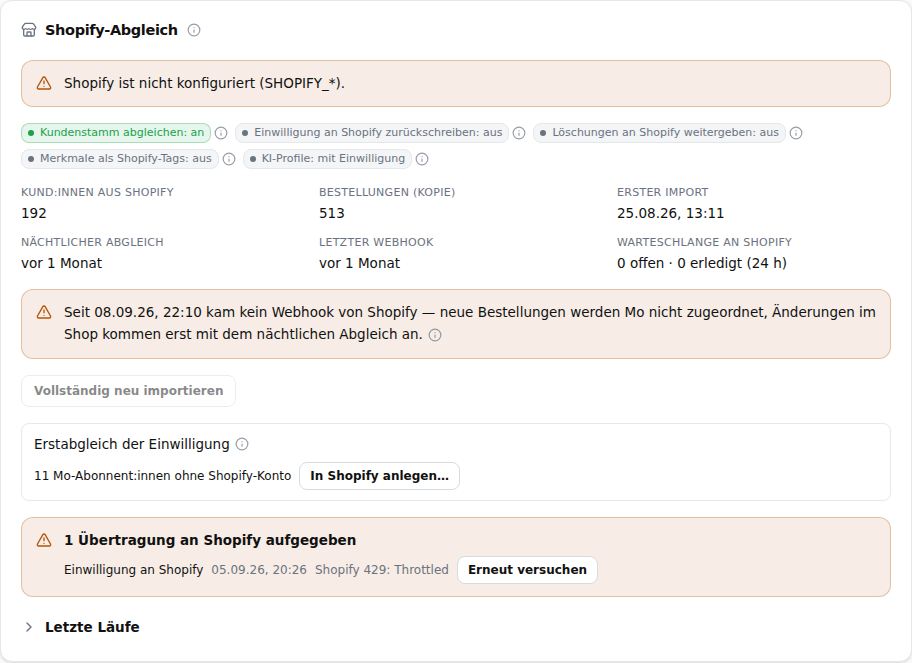
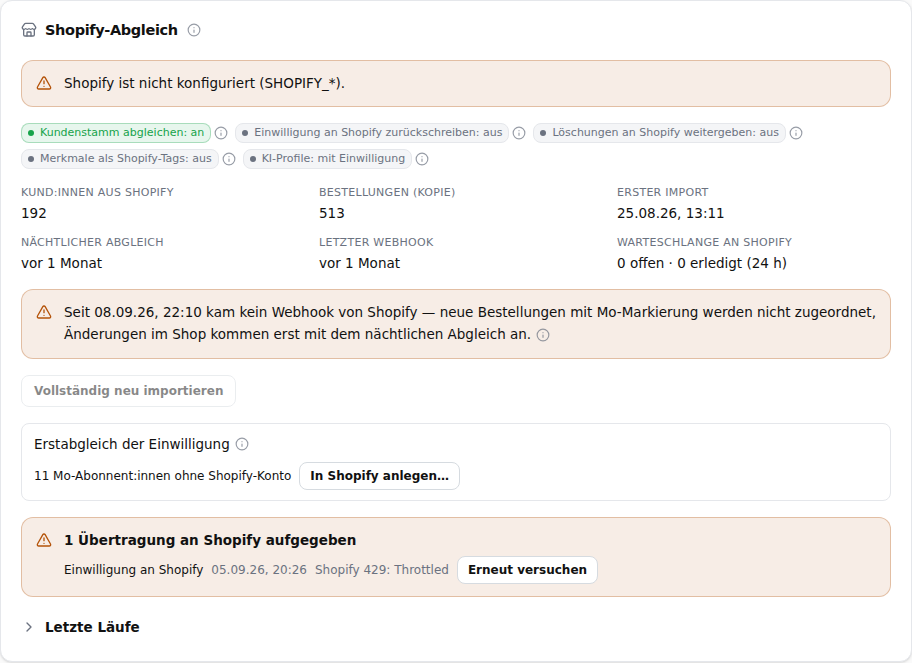
Docs: open list fixes from the review — pointers, test cases 8/8b, webhook check steps
- Item references in C.23, C.29, C.31 and Done follow the new numbering.
- Test case 8 states the popup preconditions again (no decision in Mo,
  not the 06.10. address); test case 8b has its steps back.
- The webhook check: a failed check after step 1 leads to the Vercel
  logs; the last-webhook time may read „vor 1 Min.“.
- Marked orders only, in every doc that describes the outage; screenshots
  retaken.

Claude-Session: https://claude.ai/code/session_012fxHBW88bMmfRpyx9fu3p7

Changed region(s): [[0.0614, 0.4827, 0.5833, 0.5128], [0.614, 0.4525, 0.9825, 0.4827]]

diff --git a/docs/FEATURE_INVENTORY.md b/docs/FEATURE_INVENTORY.md
@@ -255,7 +255,7 @@ Erster Bildschirm (`/admin`, `?tab=eingang`, Taste `1`, Plan D-9). `EingangTab` 
 | ID | Element | Type | What it does | Calls | File |
 |---|---|---|---|---|---|
 | EIG-01 | Callout „Keine Datenbank konfiguriert (DATABASE_URL) — der Eingang kann nicht geladen werden." | display (warn) | Zustand ohne DB | server-render | EingangTab.tsx |
-| EIG-02 | Systemleiste: „n Entwürfe zur Prüfung“ mit Link je aktiver Kampagne (`?tab=kampagne&campaign=<slug>`, sonst „Zu den Kampagnen“); „n offene Wissensfragen“ (→ Wissen) + „Analyse läuft · Verbesserungslauf läuft“; Streifen „letzte 30 Tage“: Gespräche · Kampagnen-Mails · neu angemeldet (Personen mit einer Anmeldung zur einen Einwilligung im Zeitraum, jede Oberfläche, ohne Import) + „Alle KPIs“; Callout „Shopify-Abgleich braucht Aufmerksamkeit“ + „Einstellungen“ (die Punkte aus `describeSyncProblems`; **Nachtrag 2026-10-11:** „Seit über zwei Tagen kam kein Shopify-Webhook an — neue Bestellungen werden Mo nicht zugeordnet.“) | display + links | Ersetzt die Übersicht-Karten | server-render (`listCampaigns`, `getEingangSystemSnapshot`, `describeSyncProblems`) | eingang/EingangWorkspace.tsx (SystemStrip), lib/admin-overview-store.ts |
+| EIG-02 | Systemleiste: „n Entwürfe zur Prüfung“ mit Link je aktiver Kampagne (`?tab=kampagne&campaign=<slug>`, sonst „Zu den Kampagnen“); „n offene Wissensfragen“ (→ Wissen) + „Analyse läuft · Verbesserungslauf läuft“; Streifen „letzte 30 Tage“: Gespräche · Kampagnen-Mails · neu angemeldet (Personen mit einer Anmeldung zur einen Einwilligung im Zeitraum, jede Oberfläche, ohne Import) + „Alle KPIs“; Callout „Shopify-Abgleich braucht Aufmerksamkeit“ + „Einstellungen“ (die Punkte aus `describeSyncProblems`; **Nachtrag 2026-10-11:** „Seit über zwei Tagen kam kein Shopify-Webhook an — neue Bestellungen mit Mo-Markierung werden nicht zugeordnet.“) | display + links | Ersetzt die Übersicht-Karten | server-render (`listCampaigns`, `getEingangSystemSnapshot`, `describeSyncProblems`) | eingang/EingangWorkspace.tsx (SystemStrip), lib/admin-overview-store.ts |
 | EIG-03 | Status `SegmentedControl` „Offen n · Später n · Erledigt“ (Erledigt inkl. verworfen) + Select „Alle Arten“ (Art mit Anzahl) | filter | Status über `?status=zurueckgestellt\|erledigt` (router.push), Art client-seitig | server-render (`listInboxItems`) | eingang/EingangWorkspace.tsx |
 | EIG-04 | „Jetzt prüfen“ → Toast „n neu · m erledigt sich von selbst.“ | button | Regeln sofort ausführen (ohne KI-Vorschläge) | POST /api/admin/inbox/run | eingang/EingangWorkspace.tsx |
 | EIG-05 | Liste „Jetzt / Diese Woche / Später“ (`signalGroup`): Prioritätspunkt (≥ 80 / ≥ 55), Titel, ✨ bei Vorschlag, relative Zeit, „Kunde · Grund“; leer „Alles erledigt“ | list (buttons) | Auswahl → `?item=` (replaceState) | client-only | eingang/EingangWorkspace.tsx |
@@ -850,7 +850,7 @@ Bildschirm-Beschreibung: [`ADMIN_DASHBOARD.md`](./ADMIN_DASHBOARD.md) §3.5 und 
 | KPI-95 | (2026-10-08) Anmelde-Popup: h4 „Mit und ohne Gutschein-Hinweis“ (InfoTip) — Tabelle Hinweis („mit Hinweis“ / „ohne Hinweis“ / „gemischt“) · Variante · Angezeigt · „Anmelden“ · Im Chat angemeldet · Anmelderate (im Chat ÷ angezeigt) · Opt-in danach · Bestätigt, nur sobald ein Popup mit Hinweis existiert; h4 „Nach ausgelieferter Variante“ (InfoTip) — Variante · Mit Hinweis · dieselben Spalten, nur mit Zeilen | display (Tabellen) | Wirkung des Anmelde-Teasers: Sitzungen nach ihrem **ersten** Popup (`login_gate_shown {teaser, variant}`), „gemischt“ bei abweichendem späterem Popup; je ausgelieferter Variante über das erste `consent_copy_served` der Sitzung (nur solange mehrere Varianten aktiv sind); „Opt-in danach“ / „Bestätigt“ in derselben Sitzung nach dem Klick | `getLoginGateFunnel` → `byTeaser` / `byServedVariant`; `normalizeLoginTeaserRows` / `normalizeServedVariantRows` (`kpi-widget-events.mjs`, getestet) | kpi/sections/LoginGateSection.tsx |
 | KPI-96 | (2026-10-08) h4 „Gutschein-Test: Varianten gegen Kontrollgruppe a“ (InfoTip mit der Frist aus `MARKETING_DOI_EXPIRY_DAYS`): ohne Test Callout „Kein Gutschein-Test im Zeitraum — nur eine Variante aktiv.“ bzw. Warnung „Mehrere Varianten aktiv, aber kein Test vorab festgelegt (CONSENT_REWARD_EXPERIMENT) — kein Vergleich.“; mit Test je Variante „Bestätigte Anmeldungen je berechtigter Sitzung: b vs. a“ + StatusBadge „belastbar“ (95-%-Intervall, „Unterschied gesichert“ / „kein gesicherter Unterschied“) oder „läuft (n / Ziel)“, Tabelle Variante · Berechtigte Sitzungen · Opt-ins · DOI-Mail verschickt · Bestätigt · Bestätigt je Sitzung · Unterschied zu a, Zeile „Ausgeschlossen: …“ | display (Callout / Badges / Tabelle) | Intention-to-treat nach **zugeteilter** Variante: jede angemeldete Sitzung, der die Frage angeboten werden durfte (Server-Event `consent_ask_eligible` aus `/api/auth/me`), mit der Variante ihrer **ersten Berechtigung überhaupt** (eine Sitzung, die schon vor dem Zeitraum berechtigt war, zählt nicht); Opt-in und DOI-Mail in derselben Sitzung höchstens `MARKETING_DOI_EXPIRY_DAYS` nach der Berechtigung, die Bestätigung **dieses** Opt-ins höchstens so lange nach dem Opt-in (bei `captureId` dieselbe Erfassung); nur Sitzungen, deren Frist (2 × `MARKETING_DOI_EXPIRY_DAYS`) abgelaufen ist; ohne `livecheck-%`; höchstens 20.000 Sitzungen; Vergleich nur mit vorab festgelegtem `CONSENT_REWARD_EXPERIMENT` (heute `null`); Umsatz je Arm nicht enthalten | `getConsentExperiment` (`kpi-consent-experiment-store.ts`); `summariseConsentExperiment`, `CONSENT_REWARD_EXPERIMENT` (`consent-experiment.mjs`, getestet; `compareArms` / `experimentProgress` aus `page-context.mjs`) | kpi/sections/ConsentGateSection.tsx |
 | KPI-97 | (2026-10-08) h4 „Willkommensgutscheine“ (InfoTip): Stats „Gutscheine ausgegeben“ („n/a“, hint „nur in Shopify (Automatisierung)“) und „Gutscheine eingelöst“ (Anzahl, hint „n % der Bestellungen“ / „keine Bestellungen im Zeitraum“; ohne Muster „n/a“, hint „kein Muster (WELCOME_CODE_MATCH)“) | display (Stats) | Wie oft der Willkommenscode des Shops eingelöst wurde — nie geschätzt; „ausgegeben“ kennt nur die Shopify-Automatisierung | `getWelcomeCodeStats` (`kpi-consent-experiment-store.ts`): `customer_orders` im Zeitraum, nicht storniert, `discount_codes` gegen `WELCOME_CODE_MATCH` (`welcome-code-match.mjs`, getestet); nur Summen | kpi/sections/ConsentGateSection.tsx |
-| KPI-98 | (2026-10-11) Warn-Callout unter der Werkzeugleiste, solange seit über zwei Tagen kein Shopify-Webhook ankam: „Seit <Zeitpunkt> kommen keine Shopify-Webhooks an — Bestellungen seitdem sind Mo nicht zugeordnet, „Umsatz durch Mo“ fehlt für diese Zeit.“ + InfoTip „Warum und was tun“ (Zuordnung nur über den Webhook „Bestellung angelegt“, der nächtliche Abgleich füllt nur die Bestellkopie; `npm run shopify:webhooks`, Vercel-Logs von /api/webhooks/shopify, `SHOPIFY_CLIENT_SECRET`) | display (Callout) | nicht vor dem ersten Webhook überhaupt | `getSyncHealth().lastWebhookAt`, `isWebhookQuiet` (`shopify-sync-health.mjs`, getestet) | KpiTab.tsx |
+| KPI-98 | (2026-10-11) Warn-Callout unter der Werkzeugleiste, solange seit über zwei Tagen kein Shopify-Webhook ankam: „Seit <Zeitpunkt> kommen keine Shopify-Webhooks an — Bestellungen mit Mo-Markierung (Chat, Set-Link) sind seitdem nicht zugeordnet, „Umsatz durch Mo“ ist für diese Zeit zu niedrig.“ + InfoTip „Warum und was tun“ (markierte Bestellungen nur über die Webhooks „Bestellung angelegt“ / „Bestellung bezahlt“; Bestellungen mit Mo-Code ergänzt der Code-Abgleich weiter; der nächtliche Abgleich füllt nur die Bestellkopie; `npm run shopify:webhooks`, Vercel-Logs von /api/webhooks/shopify, `SHOPIFY_CLIENT_SECRET`) | display (Callout) | nicht vor dem ersten Webhook überhaupt | `getSyncHealth().lastWebhookAt`, `isWebhookQuiet` (`shopify-sync-health.mjs`, getestet) | KpiTab.tsx |
 
 ### Helper/explanatory text (KPIs) — 71 (Caveats vollständig zitiert, da inhaltlich zu erhalten)
 **Nachtrag 2026-10-06 (Neuordnung):** 1 → neuer Wortlaut (KPI-07); 5 entfällt mit der Status-Verteilung (KPI-11/12); 7 steht im InfoTip von „Vom Chat zur Bestellung“ (KPI-92); 11–15 entfallen mit „Umsatz über Mo-Rabattcodes“ (KPI-30/31) — die Code-Hinweise stehen unter „Umsatz durch Mo“; 16–21 sind zusammengelegt in den InfoTip und die Hinweise von „Umsatz durch Mo“ (KPI-89) und die InfoTips je Weg von „Wie der Umsatz entstand“ (KPI-90; 18 → „Direkt über Mo“ und seine Wege, 19 → „Beraten & gekauft“, 20 → „Beraten, anderes gekauft“); 30–33 entfallen mit dem Marketing-Funnel (KPI-58…60); 39–43 entfallen mit „Empfehlung → Kauf“ (KPI-66…69); 44–45 sind der InfoTip der Karte „Sprachen“ in „Beratungen“ (KPI-17/18); 59 hat einen neuen Wortlaut (KPI-40). Neue InfoTips der Abschnitte KPI-89…92 stehen in `kpi/sections/UmsatzSection.tsx`, `UmsatzWegeSection.tsx`, `UmsatzBestellungenSection.tsx`, `JourneySection.tsx`; die Gruppen-InfoTips in `kpi/groups.ts`.
@@ -1215,7 +1215,7 @@ Bildschirm-Beschreibung: [`ADMIN_DASHBOARD.md`](./ADMIN_DASHBOARD.md) §3.10. Di
 | EIN-05 | Warnbox „Keine Datenbank konfiguriert (DATABASE_URL) — die Auswahl kann nicht gespeichert werden…" (+ Selects disabled) | display/state | – | – | einstellungen/EmailSettingsWorkspace.tsx |
 | EIN-06 | Versand-Konfiguration: „E-Mail-Versand" Badge Konfiguriert/Nicht konfiguriert, „Absender-Adresse", „Antwort-/Eingangsadresse", „Logo-Override (EMAIL_LOGO_URL)" | display (dl) | Env-Werte read-only | server-render | einstellungen/EmailSettingsWorkspace.tsx |
 | **Shopify-Abgleich (ab 2026-10-01)** ||||||
-| EIN-07 | Karte „Shopify-Abgleich“ (InfoTip): Callout „Shopify ist nicht konfiguriert (SHOPIFY_*).“; Schalter-Badges „Kundenstamm abgleichen“ (`SHOPIFY_CUSTOMER_SYNC_ENABLED`), „Einwilligung an Shopify zurückschreiben“ (`SHOPIFY_CONSENT_WRITEBACK`), „Löschungen an Shopify weitergeben“ (`SHOPIFY_ERASURE_SYNC`), **Nachtrag 2026-10:** „Merkmale als Shopify-Tags“ (`SHOPIFY_WRITEBACK_ENABLED`, EIN-12) je „an/aus“ + InfoTip, „KI-Profile: alle / mit Einwilligung“ (`CUSTOMER_AI_PROFILE_SCOPE`); Kennzahlen „Kund:innen aus Shopify“, „Bestellungen (Kopie)“, „Erster Import“, „Nächtlicher Abgleich“, „Letzter Webhook“ (+ n in 24 h), „Warteschlange an Shopify“ (offen · erledigt 24 h). **Nachtrag 2026-10-11:** Warn-Callout „Seit <Zeitpunkt> kam kein Webhook von Shopify — neue Bestellungen werden Mo nicht zugeordnet, Änderungen im Shop kommen erst mit dem nächtlichen Abgleich an.“ + InfoTip „Was tun“, solange der Abgleich an ist und seit über zwei Tagen kein Webhook kam (`isWebhookQuiet`) | card + display | Zustand der Verbindung Mo ⇄ Shopify | server-render (`getSyncHealth`, `getOutboxStats`, `shopifySyncFlags`); JSON-Zwilling GET /api/admin/shopify/status | einstellungen/ShopifySyncCard.tsx, EinstellungenTab.tsx |
+| EIN-07 | Karte „Shopify-Abgleich“ (InfoTip): Callout „Shopify ist nicht konfiguriert (SHOPIFY_*).“; Schalter-Badges „Kundenstamm abgleichen“ (`SHOPIFY_CUSTOMER_SYNC_ENABLED`), „Einwilligung an Shopify zurückschreiben“ (`SHOPIFY_CONSENT_WRITEBACK`), „Löschungen an Shopify weitergeben“ (`SHOPIFY_ERASURE_SYNC`), **Nachtrag 2026-10:** „Merkmale als Shopify-Tags“ (`SHOPIFY_WRITEBACK_ENABLED`, EIN-12) je „an/aus“ + InfoTip, „KI-Profile: alle / mit Einwilligung“ (`CUSTOMER_AI_PROFILE_SCOPE`); Kennzahlen „Kund:innen aus Shopify“, „Bestellungen (Kopie)“, „Erster Import“, „Nächtlicher Abgleich“, „Letzter Webhook“ (+ n in 24 h), „Warteschlange an Shopify“ (offen · erledigt 24 h). **Nachtrag 2026-10-11:** Warn-Callout „Seit <Zeitpunkt> kam kein Webhook von Shopify — neue Bestellungen mit Mo-Markierung werden nicht zugeordnet, Änderungen im Shop kommen erst mit dem nächtlichen Abgleich an.“ + InfoTip „Was tun“, solange der Abgleich an ist und seit über zwei Tagen kein Webhook kam (`isWebhookQuiet`) | card + display | Zustand der Verbindung Mo ⇄ Shopify | server-render (`getSyncHealth`, `getOutboxStats`, `shopifySyncFlags`); JSON-Zwilling GET /api/admin/shopify/status | einstellungen/ShopifySyncCard.tsx, EinstellungenTab.tsx |
 | EIN-08 | „Kundenstamm übernehmen“ / „Vollständig neu importieren“ → Bestätigung (was übernommen wird — keine Adressen, keine Telefonnummern; keine E-Mail) → Fortschritt „Import Kunden: Wird übernommen · n Kunden · n Bestellungen“ mit Pause / Fortsetzen und „Import abbrechen“; deaktiviert ohne Shopify oder ohne `SHOPIFY_CUSTOMER_SYNC_ENABLED` („Erst SHOPIFY_CUSTOMER_SYNC_ENABLED einschalten.“) | button + confirm + step loop | Erster Vollimport (Bulk-Operationen, fortsetzbar; der 5-Minuten-Cron macht weiter, wenn die Seite zu ist); danach erste Kennzahlen | POST /api/admin/shopify/import `{action: start\|step\|cancel}` (`useStepLoop`) | einstellungen/ShopifySyncCard.tsx, lib/shopify-sync.ts |
 | EIN-09 | Callout „n Übertragungen an Shopify aufgegeben“: Art, Zeit, letzter Fehler, „Erneut versuchen“ je Eintrag | callout + buttons | Tote Outbox-Einträge wieder einreihen | POST /api/admin/shopify/outbox `{id}` | einstellungen/ShopifySyncCard.tsx, lib/shopify-outbox.ts |
 | EIN-10 | Block „Erstabgleich der Einwilligung“ (InfoTip; nur sichtbar, wenn etwas offen ist): „An Shopify zu übertragen: n Anmeldungen · n Abmeldungen“, „n Personen werden in Shopify angelegt“ (je „— wartet auf SHOPIFY_CONSENT_WRITEBACK“), „n Mo-Abonnent:innen ohne Shopify-Konto“ + „In Shopify anlegen…“ → Bestätigung → Toast „Vorgemerkt“; deaktiviert bis der Import fertig ist („Erst den Kundenstamm übernehmen.“) | display + button + confirm | Plan D-3: Mo-Abonnent:innen (DOI, ohne Shopify-Kund:in, nicht gesperrt) werden über die Outbox als Shopify-Kund:innen mit der Einwilligung angelegt; idempotent | POST /api/admin/shopify/align (409 `import_pending`); Zahlen `getConsentAlignmentReport` (auch in GET /api/admin/shopify/status `alignment`) | einstellungen/ShopifySyncCard.tsx, lib/consent-alignment.ts |

diff --git a/docs/ROLLOUT_TODO.md b/docs/ROLLOUT_TODO.md
@@ -25,21 +25,24 @@ Commands are meant to be copied as they are — only words in CAPITALS are yours
 
 1. **Shopify webhooks are down since 05.10., ~16:45 — fix first (15 min).** `verify:live` of 11.10.
    shows the last webhook of every topic (orders, customers, consent) on 05.10. between 16:03 and
-   16:45 Berlin — during the 5.4 app setup (new app version, Shopify CLI). Since then no order is
-   attributed to Mo („Umsatz durch Mo“ is missing those days) and shop sign-ups reach Mo only with
+   16:45 Berlin — during the 5.4 app setup (new app version, Shopify CLI). Since then no order with
+   Mo's cart marker (chat, Set link) is attributed — „Umsatz durch Mo“ is too low for those days;
+   orders with a Mo code are still added by the code lookup — and shop sign-ups reach Mo only with
    the nightly reconcile (the order copy itself is complete — the reconcile fills it). Since PR #235
    the KPI page, Einstellungen → Shopify-Abgleich and the Eingang show a warning while this lasts.
    1. `npm run shopify:webhooks -- --url https://mo.motionsports.de` (only reads) → lists the 13
       topics at that address. **Topics missing** → `npm run shopify:webhooks -- --url
       https://mo.motionsports.de --apply` (creates exactly the missing ones).
-   2. **All 13 there** → Vercel → the project → Logs, filter `/api/webhooks/shopify`: requests with
-      **401** mean the signature does not match — set `SHOPIFY_CLIENT_SECRET` in Vercel (Production)
-      to the app's current secret (Dev Dashboard → the app → Settings → Client secret) → Redeploy. No
-      requests at all → the subscriptions point elsewhere (the dry run lists „pointing elsewhere“).
-   3. Check: change one tag on any customer in the Shopify admin → within a minute Einstellungen →
-      Shopify-Abgleich → „Letzter Webhook" says „gerade eben" and the warnings disappear.
-   → Tell C what step 1 printed and what you did. Orders of 05.10.–today stay unattributed (Shopify
-   does not redeliver after 48 h); C can backfill them if you want (C.32).
+   2. Then the check of step 3. **It still fails** (all 13 were there, or `--apply` created them) →
+      Vercel → the project → Logs, filter `/api/webhooks/shopify`: requests with **401** mean the
+      signature does not match — set `SHOPIFY_CLIENT_SECRET` in Vercel (Production) to the app's
+      current secret (Dev Dashboard → the app → Settings → Client secret) → Redeploy, then step 3
+      again. No requests at all → tell C (with the dry run's output).
+   3. Check: change one tag on any customer in the Shopify admin, wait a minute → Einstellungen →
+      Shopify-Abgleich → „Letzter Webhook" shows „gerade eben" or „vor 1 Min." and the warnings
+      disappear.
+   → Tell C what step 1 printed and what you did. Marked orders of 05.10.–today stay unattributed
+   (Shopify does not redeliver after 48 h); C can backfill them if you want (C.32).
 2. **Live check after the PR #234 deploy (5 min, after item 1).** `npm run verify:widget` and
    `npm run verify:live -- --since 2026-10-09T16:40+02:00 --shopify` → send C both outputs. Section
    10 must end with „Einmal-Garantie: 0 Hinweis(e)“ or each ⚑ is explained; 10f („Alte
@@ -55,13 +58,22 @@ Commands are meant to be copied as they are — only words in CAPITALS are yours
    3. `npm run check:welcome -- --show-codes` → copy the full code (do not paste this output
       anywhere) → Vercel (Production) `WELCOME_CODE_MATCH=THECODE` → Redeploy. „Gutscheine eingelöst“
       on the KPI page then counts it.
-   4. **Test case 8** (Mo's DOI → Shopify; after item 1, else the write still lands but nothing is
-      observed in time): fresh private window, sign in with a test account that is not subscribed
-      and has no open shop sign-up, send a first chat message, tap „Ja, Angebote aktivieren“ (note
-      the time), click the link in Mo's mail (note the time), wait 15 min, note whether and when a
-      5 % mail arrives. Then `npm run check:welcome -- --email TESTADDRESS --inbox "DD.MM.YYYY HH:MM"`
-      (the arrival time of the 5 % mail; leave out `--inbox` if none came). Test case 8b (anonymous capture form)
-      as in „C.31“ when convenient.
+   4. **Test case 8 — signed-in chat popup** (Mo's DOI → Shopify `consent_update`; after item 1):
+      1. Fresh private window. Sign in (shop login, or „Anmelden“ in the chat) with a test account
+         that has **no consent decision in Mo** (not subscribed, not pending — so **not the 06.10.
+         test address**), is not blocked, has no open shop sign-up (do not tick the shop's
+         newsletter box) and has not declined the popup, or seen it in 3 sessions, within 30 days.
+      2. Send a first chat message; the popup appears (≈ 0.7 s later). Tap „Ja, Angebote
+         aktivieren“ and note the time.
+      3. Click the link in Mo's confirmation mail and note the time.
+      4. Wait 15 min; note whether and when a 5 % mail arrives.
+      5. `npm run check:welcome -- --email TESTADDRESS --inbox "DD.MM.YYYY HH:MM"` (the arrival
+         time of the 5 % mail; leave out `--inbox` if none came).
+      6. Screenshot the automation's activity report for that address.
+      **Test case 8b — in-chat capture form** (anonymous; Mo's DOI → Shopify `customerCreate`;
+      when convenient): fresh private window, NOT signed in, an address that has never been a shop
+      customer; let Mo recommend a product, ask for the summary by e-mail, tick the summary and the
+      newsletter box, send; click the link in Mo's mail (note the time); then steps 4–6.
    4b. **The 06.10. test address** (shop box + chat popup) before item 6:
       `npm run check:welcome -- --email TESTADDRESS` (add `--inbox "06.10.2026 HH:MM"` if a 5 % mail
       came).
@@ -150,7 +162,7 @@ Commands are meant to be copied as they are — only words in CAPITALS are yours
 ## Done
 
 - [x] Opt-in reward round of 08.10., backend part (C, PR #234; no migration, no new switch, no widget
-  change — live with its deploy; checks: open list items 1–3; detail and the parts still open: C.31):
+  change — live with its deploy; checks: open list items 2–3; detail and the parts still open: C.31):
   - **DOI only once:** at most one confirmation mail per address within 30 minutes
     (`MARKETING_DOI_RESEND_COOLDOWN_MINUTES`, also for two tabs or devices at once); after that the
     same, still-valid link is mailed again; a failed send blocks nothing. A link confirms once, and
@@ -790,7 +802,8 @@ Each is one Vercel variable + Redeploy unless noted. Do them one at a time.
       (against the latest nightly run, `--ran-at` optional) and section 9 clicks by `samePage`,
       dossier §21.3 with both switch states.
 - [ ] **C.23** Page context: the switch is on since 05.10., the context in use since the upload of
-      06.10.; once 2–3 days of base rate are in (≈ 09.10., open list item 7), pre-register
+      06.10.; once 2–3 days of base rate are in (the live check of 11.10. has them: 32 product-page
+      answers with page context, 6 product clicks with `samePage`), pre-register
       the control-group experiment (`PAGE_CONTEXT_EXPERIMENT`, target size per arm) and tell M
       the `CHAT_PAGE_CONTEXT_HOLDOUT_PCT` value; read the result once the target is reached.
 - [ ] **C.24** Attribution: remove the legacy fallback (rows without `messages.session_id`) 37 days
@@ -892,7 +905,8 @@ Each is one Vercel variable + Redeploy unless noted. Do them one at a time.
       for a shop sign-up that is still pending (≤ `MARKETING_DOI_EXPIRY_DAYS`), answers „already
       subscribed“ for a shop subscriber and treats a shop unsubscribe / invalid address as blocked;
       drift healing never pushes `pending` or the DOI expiry's `not_subscribed`. What happened on
-      06.10.: the read-only SQL of open list item 3 (M). Docs: `CONSENT_FLOW.md` „Shopify → Mo“,
+      06.10.: answered by `verify:live` 10e of 11.10. (6 shop consents lost on 05.10. 11:01, before
+      the fix; from 16:45 the webhook outage — open list item 1, C.32). Docs: `CONSENT_FLOW.md` „Shopify → Mo“,
       `CUSTOMERS.md` „Shopify webhook topics“. Follow-ups: C.31.
 - [ ] **C.30** Open decisions of the four reworks of 06.10. — **M decides**, C builds what changes:
   - **Order list and privacy:** „Was genau passiert ist“ shows per order the order number, amount, Mo
@@ -918,13 +932,13 @@ Each is one Vercel variable + Redeploy unless noted. Do them one at a time.
     cards on other screens look cramped at the top (Verbesserung pads its own).
 
 - [ ] **C.31** **Opt-in reward round 2026-10-08** ([`frontend/tasks/OPTIN_REWARD_2026-10-08.md`](./frontend/tasks/OPTIN_REWARD_2026-10-08.md);
-      widget `495fdf6` shipped dormant by FE — live once `verify:widget` names it, open list item 1; the backend part built in PR #234 — no migration, no new
+      widget `495fdf6` shipped dormant by FE — live once `verify:widget` names it, open list item 2; the backend part built in PR #234 — no migration, no new
       switch, no widget change; new env `MARKETING_DOI_RESEND_COOLDOWN_MINUTES` (30) and
       `WELCOME_CODE_MATCH` (empty = „n/a“)). Order of the rest: T1 → O-1…O-9 + counsel (T8) →
       T3 + T4 + T5 behind switches → T9 → switch flip.
   - [ ] **T1 — who issues the welcome code.** Tooling built (`npm run check:welcome`,
         `src/lib/welcome-code-check.mjs`, tested; `DISCOUNTS.md` „Welcome codes“). Open: M's run and
-        admin record (open list item 2) → C records here: the sender (Shopify Messaging automation /
+        admin record (open list item 3) → C records here: the sender (Shopify Messaging automation /
         Flow / app / Mailchimp), its trigger and conditions, the discount settings, the activity
         report, test cases 8 / 8b with their times (Mo's DOI click → outbox done → Shopify consent
         time → welcome mail), whether a chat confirmation fires the automation per path
@@ -941,7 +955,7 @@ Each is one Vercel variable + Redeploy unless noted. Do them one at a time.
         accepts → one mail), the same still-valid link re-sent after the cooldown (its expiry
         restarts), the claim released right after a failed send, conditional confirm (once; never after an
         unsubscribe or block), outcomes `doi_pending` / `shopify_pending`, all three opt-in routes.
-        Check: open list item 1 (section 10). Acknowledgement of the old-link change: open list item 4.
+        Check: open list item 2 (section 10). Acknowledgement of the old-link change: open list item 4.
         Known limits, decide later: only opt-ins written before this release (no `captureId`) credit a
         confirmation to the row's latest session; a row still `confirmed` after a Shopify-side unsubscribe
         shows the success page on an old link (no act is recorded); a loser answers „mail is out“
@@ -958,7 +972,7 @@ Each is one Vercel variable + Redeploy unless noted. Do them one at a time.
         `customerEmailMarketingConsentUpdate` rejects `NOT_SUBSCRIBED`, but the comment in
         `shopify-outbox.ts` and `toShopifyConsentInput` still treat it as accepted.
   - [x] **T2.7 — `verify:live` section 10 „Einmal-Garantie“** and the `verify:widget` row
-        `reward-2026-10-08` (built, PR #234). Run: open list item 1; during T9 run
+        `reward-2026-10-08` (built, PR #234). Run: open list item 2; during T9 run
         `npm run verify:live -- --since <test start, ISO with zone> --session <sid prefix> [--shopify]` per case
         **before** „Meine Daten löschen“ (erasure deletes the evidence). Assumed until T1/T3 decide:
         the welcome tag `welcome_code_issued` (`--welcome-tag`; a missing tag is a ⚑ only with
@@ -989,15 +1003,16 @@ Each is one Vercel variable + Redeploy unless noted. Do them one at a time.
   - [x] **T8 — counsel package** (dossier § 22, F-39…F-47, additions to F-12/F-17/F-29/F-38; built,
         PR #234). Send: open list item 5. After the answers: answers in place + Anhang A, rewrite
         dossier :51 and § 5 (v5 → v6) with T3; `lawyerApproved` for b/c only after the answers;
-        add the old-link count (open list item 3) to § 22.1.
+        add the old-link count (`verify:live` 10f, open list item 2) to § 22.1.
   - [ ] **T9 — live test matrix** (15 cases, OPTIN_REWARD §T9; 8b = the in-chat capture form) — after
         the T1 issuer setup and T3–T5, with the switches on for testing; pass = exactly one welcome
         code per customer across all paths, at most one Mo DOI mail per address within the cooldown,
         section 10 without unexplained ⚑.
 - [ ] **C.32** **Shopify webhooks: outage of 05.10. and its gap.** M's `verify:live` of 11.10.: the last
   webhook of every topic on 05.10. 16:03–16:45 Berlin (during the 5.4 app setup); the order copy
-  stays complete through the nightly reconcile, but no order is attributed and shop consents arrive
-  only nightly. Built (PR #235): `isWebhookQuiet` (`shopify-sync-health.mjs`, tested — no webhook for
+  stays complete through the nightly reconcile and orders with a Mo code still come in through the
+  code lookup, but orders with Mo's cart marker are not attributed and shop consents arrive only
+  nightly. Built (PR #235): `isWebhookQuiet` (`shopify-sync-health.mjs`, tested — no webhook for
   more than two days) drives a warning on the KPI page, in Einstellungen → Shopify-Abgleich, the
   Eingang system card (now with the consequence), a nightly `reportError` from the reconcile cron and
   a ⚑ at the top of `verify:live` (and in 10e). Open: M restores the subscriptions (open list item 1)

diff --git a/docs/ADMIN_DASHBOARD.md b/docs/ADMIN_DASHBOARD.md
@@ -1233,12 +1233,12 @@ the customer platform's link to Shopify:
   Shopify (open · done in 24 h).
 - **Webhook outage** (2026-10-11): with the sync on and the last webhook more than
   two days old (`isWebhookQuiet`, `shopify-sync-health.mjs`, tested), a warning
-  Callout „Seit <Zeitpunkt> kam kein Webhook von Shopify — neue Bestellungen werden
-  Mo nicht zugeordnet, Änderungen im Shop kommen erst mit dem nächtlichen Abgleich
-  an.“ with an InfoTip on what to check (`npm run shopify:webhooks`, the Vercel
+  Callout „Seit <Zeitpunkt> kam kein Webhook von Shopify — neue Bestellungen mit
+  Mo-Markierung werden nicht zugeordnet, Änderungen im Shop kommen erst mit dem
+  nächtlichen Abgleich an.“ with an InfoTip on what to check (`npm run shopify:webhooks`, the Vercel
   logs of `/api/webhooks/shopify`, `SHOPIFY_CLIENT_SECRET`). The same rule feeds
   the Eingang system card („Seit über zwei Tagen kam kein Shopify-Webhook an — neue
-  Bestellungen werden Mo nicht zugeordnet.“), the KPI page warning (§5) and a
+  Bestellungen mit Mo-Markierung werden nicht zugeordnet.“), the KPI page warning (§5) and a
   nightly `reportError` from `/api/cron/shopify-reconcile`.
 - **Import:** „Kundenstamm übernehmen“ / „Vollständig neu importieren“
   (confirmed; customers and orders via bulk operations, no addresses or phone
@@ -1445,10 +1445,12 @@ which figures the period applies to.
 **Webhook outage** (2026-10-11): while no Shopify webhook has arrived for more than two days
 (`isWebhookQuiet`, `shopify-sync-health.mjs`, tested; `getSyncHealth().lastWebhookAt`), a warning
 Callout sits directly under the toolbar: „Seit <Zeitpunkt> kommen keine Shopify-Webhooks an —
-Bestellungen seitdem sind Mo nicht zugeordnet, „Umsatz durch Mo“ fehlt für diese Zeit.“ with an
-InfoTip „Warum und was tun“ (orders are attributed only through the `orders/create` webhook; the
-nightly reconcile fills the order copy but attributes nothing; check `npm run shopify:webhooks`, the
-Vercel logs of `/api/webhooks/shopify`, `SHOPIFY_CLIENT_SECRET`). Not shown before the first webhook
+Bestellungen mit Mo-Markierung (Chat, Set-Link) sind seitdem nicht zugeordnet, „Umsatz durch Mo“ ist
+für diese Zeit zu niedrig.“ with an InfoTip „Warum und was tun“ (marked orders are attributed only
+through the `orders/create` / `orders/paid` webhooks; orders with a Mo code are still added by the
+Shopify code lookup of §5.16 — the 100 newest codes; the nightly reconcile fills the order copy but
+attributes nothing; check `npm run shopify:webhooks`, the Vercel logs of `/api/webhooks/shopify`,
+`SHOPIFY_CLIENT_SECRET`). Not shown before the first webhook
 ever. Einstellungen → Shopify-Abgleich (§3.10) shows the same state. Screenshots (light/dark,
 1440/1024): `docs/screenshots/2026-10-11-webhook-warning/`.
 

diff --git a/docs/CUSTOMERS.md b/docs/CUSTOMERS.md
@@ -127,8 +127,9 @@ the catalog path (targeted refresh, backpressure): [`CATALOG_SYNC.md`](./CATALOG
 **Outage detection** (2026-10-11): every delivery of the customer and order topics is recorded in
 `shopify_webhook_events`; when the newest is more than two days old while the sync is on
 (`isWebhookQuiet`, `src/lib/shopify-sync-health.mjs`, tested) the subscriptions or their signature
-are broken — orders are then no longer attributed (only `orders/create` attributes; the nightly
-reconcile keeps the order copy complete) and shop consents arrive only nightly. The KPI page,
+are broken — orders carrying Mo's cart marker are then no longer attributed (only `orders/create`
+/ `orders/paid` attribute them; orders with a Mo code are still added by the KPI page's code
+lookup; the nightly reconcile keeps the order copy complete) and shop consents arrive only nightly. The KPI page,
 Einstellungen → Shopify-Abgleich and the Eingang warn, the nightly reconcile reports it
 (`reportError`), and `npm run verify:live` flags it at the top. Fix: `npm run shopify:webhooks`
 (missing topics → `--apply`), else the Vercel logs of this route (`401` = `SHOPIFY_CLIENT_SECRET`
